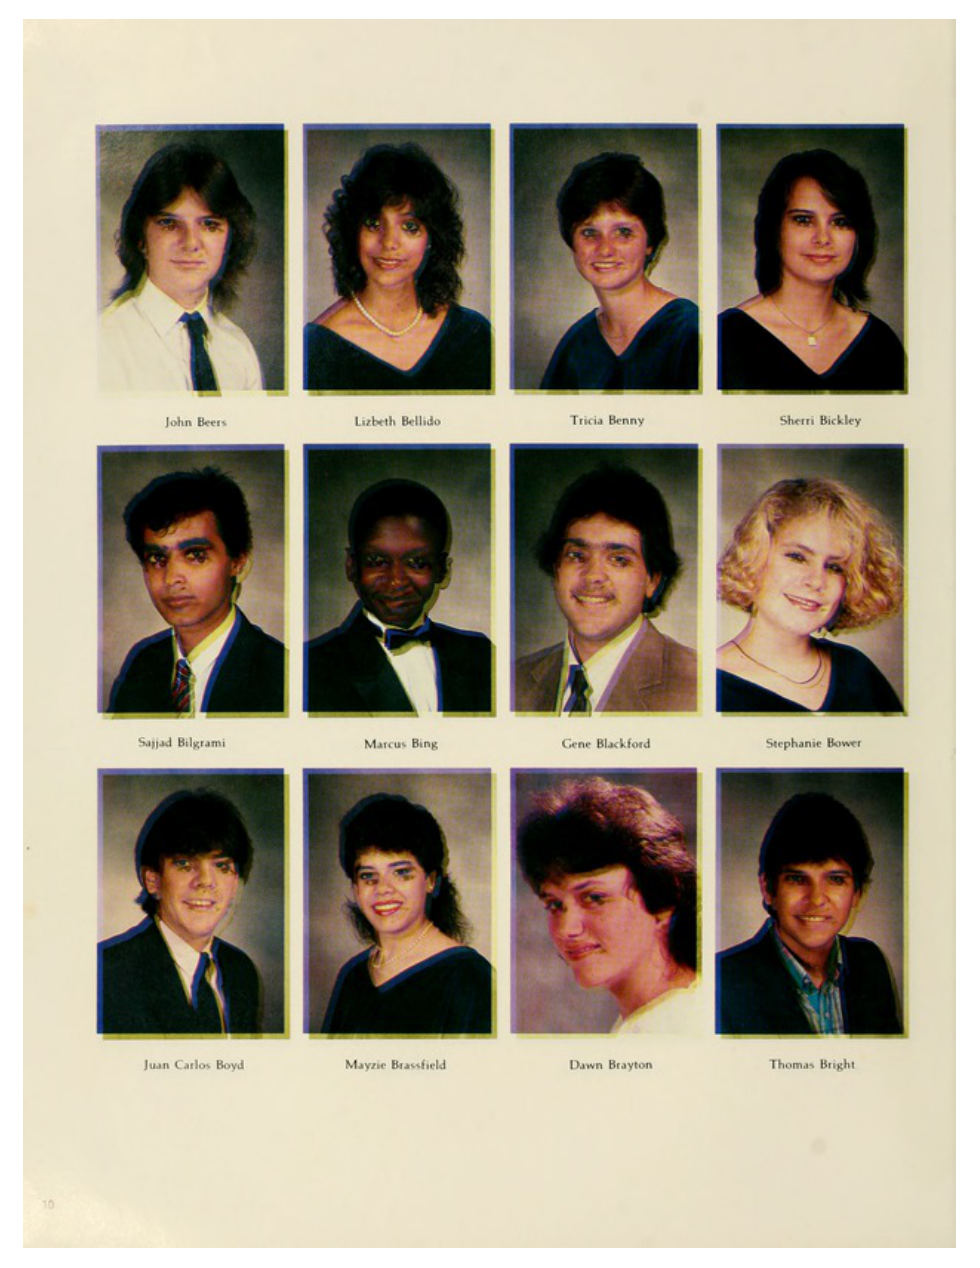
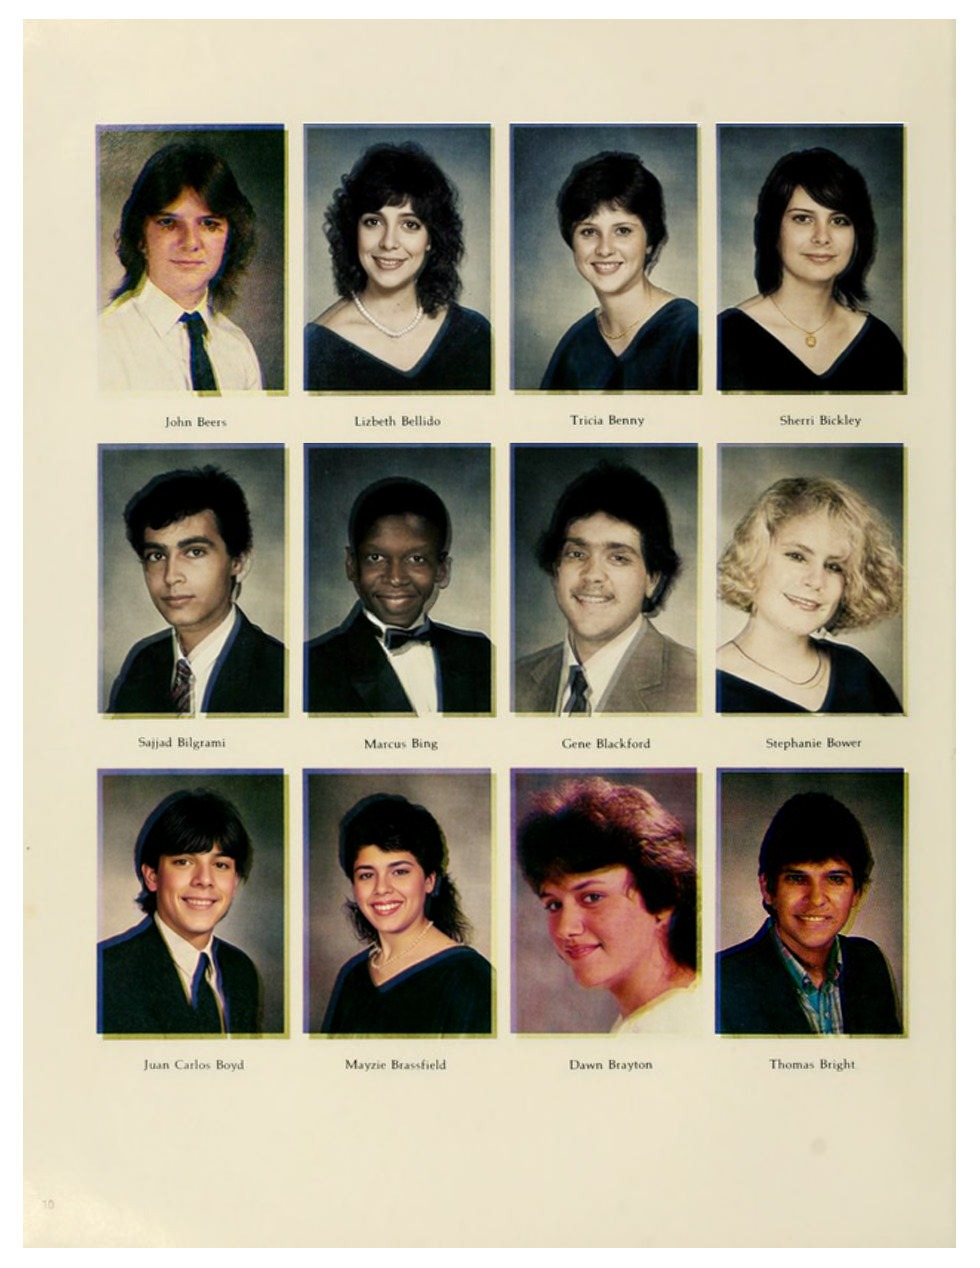
Cleaner photos for page 11 (Beers–Bright); Robert Bell photo on Missing photos
- page-011.jpg: the 12 portraits replaced with the organizer's cleaner scans
  (aligned to the existing photo boxes, so no overlay changes)
- Photos the organizer adds from yearbook scans ship with the site
  (client/public/missing/, path "uploads/static/<file>" in missing_photos)

Claude-Session: https://claude.ai/code/session_01Ez9SoE4pzRjYzMq5Q58PyM

diff --git a/client/src/lib/use-reunion-data.ts b/client/src/lib/use-reunion-data.ts
@@ -291,7 +291,7 @@ export function useReunionData(options: { stub?: boolean } = {}) {
           .then(async (rows) => {
             const row = Array.isArray(rows) ? rows[0] : null;
             if (!row) { setMyMissingPhoto(null); return; }
-            const urls = row.storage_path ? await supabaseSignedUrls(PHOTO_BUCKET, [row.storage_path], token) : {};
+            const urls = withStaticPhotos(row.storage_path && !isStaticPhoto(row.storage_path) ? await supabaseSignedUrls(PHOTO_BUCKET, [row.storage_path], token) : {}, [row.storage_path]);
             setMyMissingPhoto({ eligible: row.eligible, status: row.status, url: row.storage_path ? urls[row.storage_path] ?? null : null });
           })
           .catch(() => setMyMissingPhoto(null));
@@ -736,8 +736,8 @@ export function useReunionData(options: { stub?: boolean } = {}) {
     }
     const token = session?.accessToken ?? null;
     const rows = await supabaseRpc<{ id: string; display_name: string; storage_path: string | null; watermark: string | null; titles: string[] | null; rip?: boolean | null }[]>("missing_photos_public", {}, token);
-    const paths = rows.flatMap((r) => (r.storage_path ? [r.storage_path] : []));
-    const urls = await supabaseSignedUrls(PHOTO_BUCKET, paths, token);
+    const paths = rows.flatMap((r) => (r.storage_path && !isStaticPhoto(r.storage_path) ? [r.storage_path] : []));
+    const urls = withStaticPhotos(await supabaseSignedUrls(PHOTO_BUCKET, paths, token), rows.map((r) => r.storage_path));
     // A photo whose link couldn't be made is left out; titled classmates with no photo yet show as a placeholder.
     return rows
       .filter((r) => !r.storage_path || urls[r.storage_path])
@@ -766,7 +766,9 @@ export function useReunionData(options: { stub?: boolean } = {}) {
     if (stub) return stubPhotos.map(({ id, roster_id, display_name, status, created_at, url }) => ({ id, roster_id, display_name, status, created_at, url }));
     if (!session) return [];
     const rows = await supabaseRpc<(Omit<AdminMissingPhoto, "url"> & { storage_path: string })[]>("admin_missing_photos", {}, session.accessToken);
-    const urls = await supabaseSignedUrls(PHOTO_BUCKET, rows.map((r) => r.storage_path), session.accessToken);
+    const urls = withStaticPhotos(
+      await supabaseSignedUrls(PHOTO_BUCKET, rows.map((r) => r.storage_path).filter((p) => !isStaticPhoto(p)), session.accessToken),
+      rows.map((r) => r.storage_path));
     return rows.map(({ storage_path, ...r }) => ({ ...r, url: urls[storage_path] ?? null }));
   }, [stub, session]);
 
@@ -958,3 +960,18 @@ const DEMO_OVERLAYS: YearbookOverlay[] = [
   { page: 15, box: [73.47, 35.49, 19.49, 21.21], watermark: null, honor: true, categories: ["Swimming"] },
   { page: 28, box: [68.57, 10.57, 19.29, 20.74], watermark: "2026", honor: true, categories: ["Baseball:Red", "Basketball:Bulldogs", "Football:Cougars"] },
 ];
+
+/**
+ * Photos added by the organizer from a yearbook scan are shipped with the site
+ * (client/public/missing/) instead of the storage bucket. Their path in
+ * missing_photos is "uploads/static/<file>".
+ */
+const STATIC_PREFIX = "uploads/static/";
+function isStaticPhoto(path: string | null | undefined): boolean {
+  return !!path && path.startsWith(STATIC_PREFIX);
+}
+function withStaticPhotos(urls: Record<string, string>, paths: (string | null)[]): Record<string, string> {
+  const out = { ...urls };
+  for (const p of paths) if (p && isStaticPhoto(p)) out[p] = `/missing/${p.slice(STATIC_PREFIX.length)}`;
+  return out;
+}
